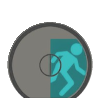
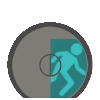
문 3d화

diff --git a/sfml-template/Objects/Goal.cpp b/sfml-template/Objects/Goal.cpp
@@ -5,7 +5,7 @@
 #include "../FrameWork/InputMgr.h"
 #include "../FrameWork/Const.h"
 
-Goal::Goal()
+Goal::Goal()	
 {
 	SetResourceTexture("Graphics/goal2.png");
 	
@@ -19,7 +19,7 @@ Goal::Goal()
 
 }
 
-Goal::Goal(Vector2f currgrid, float size, vector<int> buttonlist)
+Goal::Goal(Vector2f currgrid, float size, vector<int> buttonlist)	
 {
 	SetResourceTexture("Graphics/goal.png");
 	id = '@';
@@ -44,6 +44,24 @@ Goal::Goal(Vector2f currgrid, float size, vector<int> buttonlist)
 	rightDoorPos = pos.x;
 
 	on = false;
+
+	float dp = DEPTH * 2 - 1.f;
+	backFace.setSize({ GRIDSIZE * dp, GRIDSIZE * dp });
+	Utils::SetOrigin(backFace, Origins::MC);
+
+	Vector2u goalTexSize = sprite.getTexture()->getSize();
+	normalMap = RESOURCEMGR->GetTexture("Graphics/goaln.png");
+	for (int i = 0; i < sideTiles.size(); i++)
+	{
+		tileTextures[i] = RESOURCEMGR->GetTexture("Graphics/goalside.png");
+		sideTiles[i].first = true;
+		sideTiles[i].second.setPrimitiveType(Quads);
+		sideTiles[i].second.resize(4);
+		sideTiles[i].second[0].texCoords = { 0.f, 0.f };
+		sideTiles[i].second[1].texCoords = { (float)goalTexSize.x, 0.f };
+		sideTiles[i].second[2].texCoords = (Vector2f)goalTexSize;
+		sideTiles[i].second[3].texCoords = { 0.f, (float)goalTexSize.y };
+	}
 }
 
 Goal::~Goal()
@@ -73,9 +91,73 @@ void Goal::Update(float dt)
 }
 
 void Goal::Draw(RenderWindow& window)
+{	
+	if (!isPlayingGame)
+	{		
+		WireableObject::Draw(window);
+	}	
+	if (isPlayingGame)
+	{
+		DrawSides(window);
+		window.draw(door, doorTex);
+		window.draw(sprite);
+	}		
+}
+
+void Goal::Draw(RenderTexture& diffuse, Shader& nShader, RenderTexture& normal)
 {
-	window.draw(door, doorTex);
-	WireableObject::Draw(window);
+	//diffuse.draw(sprite);
+	//NormalPass(normal, sprite, normalMap, nShader);
+}
+
+void Goal::DrawSides(RenderWindow& window)
+{
+	Vector2f vanishingPoint = window.getView().getCenter();
+
+	backFace.setPosition(
+		sprite.getPosition() + (vanishingPoint - sprite.getPosition()) * (1.f - DEPTH)
+	);
+
+	FloatRect backRect = backFace.getGlobalBounds();
+	FloatRect frontRect = sprite.getGlobalBounds();
+
+	if (sideTiles[0].first)
+	{
+		sideTiles[0].second[0].position = { backRect.left, backRect.top };
+		sideTiles[0].second[1].position = { backRect.left + backRect.width, backRect.top };
+		sideTiles[0].second[2].position = { frontRect.left + frontRect.width, frontRect.top };
+		sideTiles[0].second[3].position = { frontRect.left, frontRect.top };
+	}
+
+	if (sideTiles[1].first)
+	{
+		sideTiles[1].second[0].position = { frontRect.left + frontRect.width, frontRect.top };
+		sideTiles[1].second[1].position = { backRect.left + backRect.width, backRect.top };
+		sideTiles[1].second[2].position = { backRect.left + backRect.width, backRect.top + backRect.height };
+		sideTiles[1].second[3].position = { frontRect.left + frontRect.width, frontRect.top + frontRect.height };
+	}
+
+	if (sideTiles[2].first)
+	{
+		sideTiles[2].second[0].position = { backRect.left, backRect.top + backRect.height };
+		sideTiles[2].second[1].position = { backRect.left + backRect.width, backRect.top + backRect.height };
+		sideTiles[2].second[2].position = { frontRect.left + frontRect.width, frontRect.top + frontRect.height };
+		sideTiles[2].second[3].position = { frontRect.left , frontRect.top + frontRect.height };
+	}
+
+	if (sideTiles[3].first)
+	{
+		sideTiles[3].second[0].position = { frontRect.left, frontRect.top };
+		sideTiles[3].second[1].position = { backRect.left, backRect.top };
+		sideTiles[3].second[2].position = { backRect.left, backRect.top + backRect.height };
+		sideTiles[3].second[3].position = { frontRect.left , frontRect.top + frontRect.height };
+	}
+
+	for (int i = 0; i < sideTiles.size(); i++)
+	{
+		if (sideTiles[i].first)
+			window.draw(sideTiles[i].second, tileTextures[i]);
+	}
 }
 
 void Goal::SetDoor(float dt)

diff --git a/sfml-template/Objects/VertexArrayObj.cpp b/sfml-template/Objects/VertexArrayObj.cpp
@@ -54,20 +54,18 @@ void VertexArrayObj::Draw(RenderWindow& window)
 	);
 
 	frontFace.setRotation(pivotSprite.getRotation());
-	backFace.setRotation(pivotSprite.getRotation());
+	backFace.setRotation(pivotSprite.getRotation());	
 
-	FloatRect backRect = backFace.getLocalBounds();
-	FloatRect frontRect = frontFace.getLocalBounds();
+	Vector2f backLt = backFace.getTransform().transformPoint(backFace.getPoint(0));
+	Vector2f backRt = backFace.getTransform().transformPoint(backFace.getPoint(1));
+	Vector2f backRb = backFace.getTransform().transformPoint(backFace.getPoint(2));
+	Vector2f backLb = backFace.getTransform().transformPoint(backFace.getPoint(3));
 	
-	Vector2f backLt = backFace.getTransform().transformPoint({ backRect.left, backRect.top });
-	Vector2f backRt = backFace.getTransform().transformPoint({ backRect.left + backRect.width, backRect.top });
-	Vector2f backRb = backFace.getTransform().transformPoint({ backRect.left + backRect.width, backRect.top + backRect.height });
-	Vector2f backLb = backFace.getTransform().transformPoint({ backRect.left, backRect.top + backRect.height });
-
+	FloatRect frontRect = frontFace.getLocalBounds();
 	Vector2f frontLt = frontFace.getTransform().transformPoint({ frontRect.left, frontRect.top });
 	Vector2f frontRt = frontFace.getTransform().transformPoint({ frontRect.left + frontRect.width, frontRect.top });
 	Vector2f frontRb = frontFace.getTransform().transformPoint({ frontRect.left + frontRect.width, frontRect.top + frontRect.height });
-	Vector2f frontLb = frontFace.getTransform().transformPoint({ frontRect.left, frontRect.top + frontRect.height });
+	Vector2f frontLb = frontFace.getTransform().transformPoint({ frontRect.left, frontRect.top + frontRect.height });	
 
 	if (sides[0].first)
 	{

diff --git a/sfml-template/Objects/Goal.h b/sfml-template/Objects/Goal.h
@@ -5,7 +5,6 @@
 #include <list>
 
 class Button;
-
 class Goal : public WireableObject
 
 {
@@ -18,6 +17,9 @@ public:
 
     virtual void Update(float dt);
     virtual void Draw(RenderWindow& window);
+    virtual void Draw
+    (RenderTexture& diffuse, Shader& nShader, RenderTexture& normal);
+    void DrawSides(RenderWindow& window);
     void Setbutton(Button* but) { button.push_back(but); }
     bool GetOn() { return on; }
 
@@ -41,5 +43,7 @@ protected:
     float leftDoorPos;
     float rightDoorPos;
 
-    
+    RectangleShape backFace;
+    array<pair<bool, VertexArray>, 4> sideTiles;
+    array<Texture*, 4> tileTextures;
 };

diff --git a/sfml-template/Scene/PlayScene.cpp b/sfml-template/Scene/PlayScene.cpp
@@ -150,6 +150,11 @@ void PlayScene::Draw(RenderWindow& window)
 		v->Draw(pass_diffuse, normals_shader, pass_normals);
 	}
 
+	if (goal != nullptr) {
+		goal->Draw(window);
+		//goal->Draw(pass_diffuse, normals_shader, pass_normals);
+	}
+
 	DrawRenderedBuffer(window);
 
 	if (madeorange) {
@@ -161,9 +166,7 @@ void PlayScene::Draw(RenderWindow& window)
 	}
 
 
-	if (goal != nullptr) {
-		goal->Draw(window);
-	}
+
 	if (player != nullptr)
 		player->Draw(window);
 

diff --git a/sfml-template/Objects/SpriteObj.h b/sfml-template/Objects/SpriteObj.h
@@ -2,6 +2,7 @@
 #include "Object.h"
 #include "../FrameWork/Utils.h"
 #include <string>
+#include "VertexArrayObj.h"
 
 enum class ObjectType
 {

diff --git a/sfml-template/Objects/Cube.h b/sfml-template/Objects/Cube.h
@@ -1,7 +1,6 @@
 #pragma once
 #include "SpriteObj.h"
 #include "box2d/box2d.h"
-#include "VertexArrayObj.h"
 
 class Cube : public SpriteObj
 {
